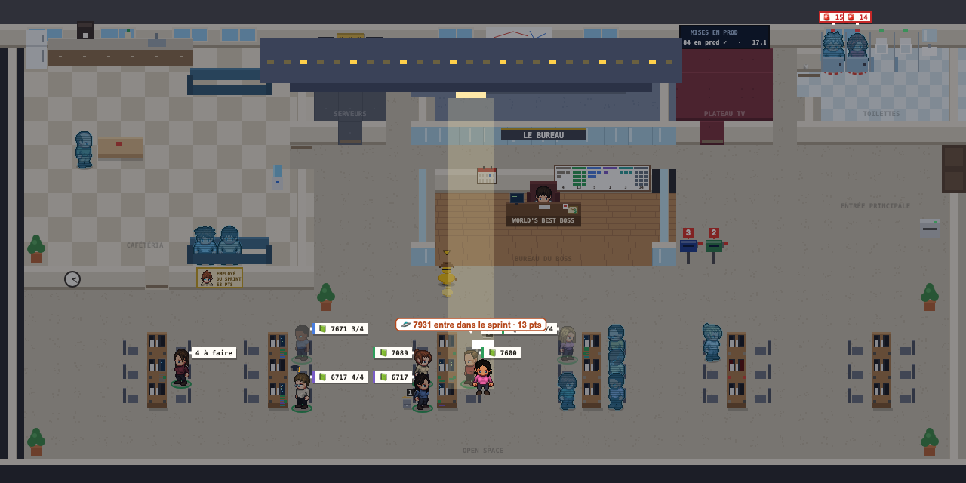
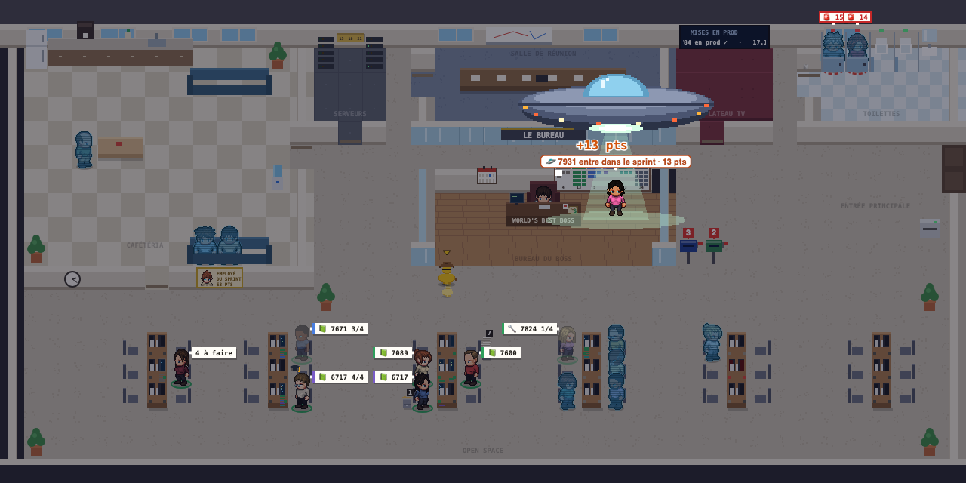
feat(page): soucoupe-mère, la facilitatrice déposée au mur Kanban avec le ticket
Le vaisseau simple de la première version devient une soucoupe-mère
(disque de trois quarts, dôme et reflet, couronne de feux qui tourne,
émetteur). Elle va chercher la facilitatrice là où elle est, traverse le
plan et la dépose devant le mur Kanban : le ticket va dans « à faire » et
y clignote, « +13 pts » au-dessus du mur, bulle d'annonce ; elle reste au
mur puis rentre à pied. Déjà au mur : le ticket descend seul jusqu'à
elle ; absente : le ticket descend seul. Loupe au dépôt (type ufo).
13 s, 10 s quand elle est déjà au mur.

Guide 01-plan et 04-fil-et-recap, README, CHANGELOG, capture
vaisseau-mere. Page de démo 905 431 octets, page publiée de référence
919 659.

#89

Changed region(s): [[0.2484, 0.0621, 0.7453, 0.8075]]

diff --git a/page/src/43-fx.js b/page/src/43-fx.js
@@ -1,5 +1,5 @@
 // ---------- petites scènes de 3 s : succès débloqué, éclosion, changement de stade (canard d'équipe), agent rétabli ----------
-// (et une de 10 s : le vaisseau-mère d'un ticket entré dans le sprint en cours de route, en bas du fichier)
+// (et une de 10 à 13 s : la soucoupe-mère d'un ticket entré dans le sprint en cours de route, en bas du fichier)
 // Chaque événement est daté par les données (fxEvents) : la scène se joue une fois quand l'heure affichée passe sa date (direct
 // ou rejeu ; le rejeu s'arrête déjà sur la loupe), FX_MS d'animation puis FX_HOLD de bulle, à la vitesse réelle. Rien quand on
 // fait glisser l'heure ; le premier passage note ce qui est déjà en cours sans le rejouer (comme la loupe).
@@ -52,7 +52,7 @@ function fxFrame(now){
     if(FX.seen)for(const e of evs)if(!FX.seen.has(e.id)&&!FX.cur.has(e.id))FX.cur.set(e.id,{...e,t0:now});
     FX.seen=new Set(evs.map(e=>e.id));
   }
-  for(const [id,e] of FX.cur)if(now-e.t0>(e.kind==='ufo'?UFO_MS:FX_MS+FX_HOLD))FX.cur.delete(id);
+  for(const [id,e] of FX.cur)if(now-e.t0>(e.kind==='ufo'?ufoPlan(e).ms:FX_MS+FX_HOLD))FX.cur.delete(id);
 }
 const fxP=(e,now)=>Math.min(1,(now-e.t0)/FX_MS); // avancement de l'animation, 0 à 1
 const fxOf=kind=>[...FX.cur.values()].find(e=>e.kind===kind);
@@ -113,36 +113,86 @@ function fxOverlay(now){
       fxBubble(c.pos.x,c.pos.y-44-(Math.floor((now-e.t0)/250)%2?2:0),'👏','#2e7d4f');
   }
 }
-// ---------- vaisseau-mère : un ticket entre dans le sprint après son démarrage (team.events, kind sprint_in) ----------
-// La lumière baisse, le vaisseau couvre le haut du plan au-dessus du poste de l'assigné (le milieu du plan sans assigné),
-// un projecteur l'éclaire, la facilitatrice (roleKind sm) descend dans le faisceau avec le ticket puis remonte.
-// Des tickets ajoutés coup sur coup (moins de 5 min d'écart) font une seule visite. Coupé par « réduire les animations ».
-const UFO_MS=1e4;
+// ---------- soucoupe-mère : un ticket entre dans le sprint après son démarrage (team.events, kind sprint_in, #89) ----------
+// La lumière baisse, une ombre glisse, la soucoupe va chercher la facilitatrice (roleKind sm) là où elle est, la dépose avec
+// le ticket devant le mur Kanban (emplacement kanban du plan) : elle le range dans « à faire », « +13 pts » sur le mur, bulle
+// d'annonce, puis la soucoupe repart et elle reste au mur. Déjà au mur : la soucoupe y vient et le ticket descend seul jusqu'à
+// elle ; absente ou pas de facilitatrice : le ticket descend seul. Des tickets ajoutés coup sur coup (moins de 5 min d'écart)
+// font une seule visite. Loupe au dépôt (44-loupe.js). Coupé par « réduire les animations ».
 let UFO_M={};
 function ufoLandings(){
   if(UFO_M.t===TEAM)return UFO_M.l;const l=[];
   for(const e of ((TEAM&&TEAM.events)||[]).filter(e=>e.kind==='sprint_in').sort((a,b)=>ms(a.t)-ms(b.t))){
     const t=ms(e.t),u=l[l.length-1];
     if(u&&t-u.end<3e5){u.end=t;if(!u.keys.includes(e.key)){u.keys.push(e.key);u.pts+=+e.points||0;}}
-    else l.push({at:t,end:t,keys:[e.key],pts:+e.points||0,dev:personChar(e.who,e.who_name)});
+    else l.push({at:t,end:t,keys:[e.key],pts:+e.points||0});
   }
   UFO_M={t:TEAM,l};return l;
 }
 const ufoSm=()=>{const c=smChar();return c&&c.pos&&c._st&&!['off','absent','gone'].includes(c._st.st)?c:null;};
-const ufoHides=c=>!!fxOf('ufo')&&c===ufoSm(); // pendant la visite, elle est dans le vaisseau
-// bubble faux : sous les bulles, au-dessus du voile de nuit ; vrai : la bulle
+// emplacement de dépôt : la case du milieu de l'emplacement kanban (le milieu du plan sans emplacement)
+function ufoSpot(){const s=((LAYOUT.spots||{}).kanban||[]).slice().sort((a,b)=>a[0]-b[0])[0|((LAYOUT.spots||{}).kanban||[]).length/2];
+  return s?{x0:s[0],y0:s[1],...tileCenter(s[0],s[1])}:tileCenter(COLS>>1,ROWS>>1);}
+// figé au début de la visite : qui, d'où (pick : on va la chercher), durée, début du dépôt (A, fraction de la visite)
+function ufoPlan(u){
+  if(u.plan)return u.plan;const sm=ufoSm(),d=ufoSpot(),wall=!!sm&&sm._st.zone==='kanban'&&!sm.moving,pick=!!sm&&!wall;
+  return u.plan={sm,d,pick,from:pick?{x:sm.pos.x,y:sm.pos.y}:d,ms:pick?13e3:1e4,A:pick?.4:.12};
+}
+const ufoHides=c=>{const u=fxOf('ufo');return !!u&&c===ufoPlan(u).sm;}; // pendant la visite, la scène la dessine
+// ellipse en lignes de pixels (vue de trois quarts) ; top : la moitié du haut seulement
+function ufoOval(x,y,a,b,col,top,st=2){for(let dy=-b;dy<(top?0:b);dy+=st){const t=(dy+st/2)/b,w=Math.round(a*Math.sqrt(Math.max(0,1-t*t))/2)*2;if(w>0)R(ctx,x-w,y+dy,w*2,st,col);}}
+function ufoSaucer(x,y,now,emit){
+  [[8,124,28,'#2b3246'],[0,130,26,'#4a5470'],[-4,124,20,'#6c7894'],[-8,108,14,'#8d98b2']].forEach(([o,a,b,c])=>ufoOval(x,y+o,a,b,c));
+  R(ctx,x-130,y-1,260,3,'#323a52');ufoOval(x,y-10,44,30,'#5e9fc4',1);ufoOval(x,y-12,36,25,'#8fd0ee',1); // arête, dôme
+  R(ctx,x-20,y-32,6,10,'#e8f8ff');R(ctx,x-13,y-35,4,4,'#e8f8ff'); // reflet
+  for(let i=0;i<14;i++){const a=i/14*Math.PI*2+now/700;if(Math.sin(a)>-.15) // couronne de feux qui tourne : ceux de devant
+    R(ctx,x+Math.cos(a)*120-3,y+1+Math.sin(a)*23,6,4,(i+Math.floor(now/180))%4?(i%2?'#ffb43a':'#ff6a3a'):'#fff6c0');}
+  ufoOval(x,y+32,36,6,emit?'#d8ffe8':'#3a4258');if(emit)ufoOval(x,y+32,22,4,'#fff'); // émetteur
+}
+function ufoBeam(x,top,bot,now,a){
+  ctx.globalAlpha=Math.max(0,a);
+  for(let y=top;y<bot;y+=2)R(ctx,x-14-30*(y-top)/(bot-top),y,28+60*(y-top)/(bot-top),2,`rgba(190,255,215,${Math.floor((y+now/30)/6)%2?.3:.2})`);
+  ufoOval(x,bot,92,12,'rgba(200,255,220,.35)');ctx.globalAlpha=1;
+}
+const ufoCard=(x,y)=>{R(ctx,x-9,y-6,18,13,'#b5481c');R(ctx,x-8,y-5,16,11,'#fff');R(ctx,x-6,y-3,12,2,'#b5481c');R(ctx,x-6,y+1,8,2,'#e0a080');};
+const ufoStand=(c,x,y,f,a=1)=>{const img=spriteOf(c);if(ready(img)){ctx.globalAlpha=a;ctx.drawImage(img,f*64,256,64,64,x-32,y-60,64,64);ctx.globalAlpha=1;}};
+const ufoSay=u=>'🛸 '+(u.keys[1]?u.keys.length+' tickets entrent':shortKey(u.keys[0])+' entre')+' dans le sprint'+(u.pts?' · '+u.pts+' pts':'');
+// bubble faux : au-dessus du voile de nuit, sous les bulles ; vrai : la bulle d'annonce
 function ufoDraw(now,bubble){
   const u=fxOf('ufo');if(!u)return;
-  const p=Math.min(1,(now-u.t0)/UFO_MS),k=(a,b)=>Math.min(1,Math.max(0,(p-a)/(b-a))),d=u.dev&&u.dev.seat?tileCenter(...u.dev.seat):{x:W/2,y:H/2},sm=ufoSm();
-  if(bubble){if(p>.56&&p<.84)fxBubble(d.x,d.y-70,'🛸 '+(u.keys[1]?u.keys.length+' tickets entrent':shortKey(u.keys[0])+' entre')+' dans le sprint'+(u.pts?' · '+u.pts+' pts':''),'#b5481c');return;}
-  ctx.fillStyle=`rgba(10,12,25,${.42*k(0,.15)*(1-k(.85,.97))})`;ctx.fillRect(0,0,W,H);
-  const w=Math.min(W-16,560),x=Math.max(w/2+8,Math.min(W-w/2-8,d.x)),y=-100+150*k(.12,.32)-160*k(.82,.97),b=y+80;
-  if(p>.3&&p<.82)R(ctx,d.x-30,b,60,d.y+8-b,'rgba(255,240,180,.24)'); // projecteur
-  if(p>.4&&p<.82){
-    const h=d.y+14-b-40,yy=b+40+h*k(.4,.58)-h*k(.72,.82),xx=d.x+(sm?16:0),img=sm&&spriteOf(sm);
-    if(img&&ready(img))ctx.drawImage(img,128,256,64,64,xx-32,yy-60,64,64); // de face, debout
-    if(p<.62)R(ctx,xx-14,yy-(sm?72:20),28,13,'#fff');
+  const {sm,d,pick,from:s,ms:D,A}=ufoPlan(u),p=Math.min(1,(now-u.t0)/D),k=(a,b)=>Math.min(1,Math.max(0,(p-a)/(b-a))),q=a=>A+(1-A)*a;
+  if(bubble){if(p>q(.62)&&p<q(.82))fxBubble(d.x,d.y-(sm?62:38),ufoSay(u),'#b5481c');return;}
+  const hy=Math.max(80,(KANR?KANR.y:d.y)-80),sy=Math.max(80,s.y-150);
+  ctx.fillStyle=`rgba(10,12,30,${.45*k(0,.08)*(1-k(q(.9),q(.98)))})`;ctx.fillRect(0,0,W,H); // la lumière baisse
+  if(p<.16){ctx.globalAlpha=.35*(1-k(.12,.16));ufoOval(W+120-(W+120-s.x)*k(0,.12),s.y+10,190,34,'#05060c',0,4);ctx.globalAlpha=1;} // l'ombre
+  let x=d.x,y=hy; // trajet : au-dessus d'elle, traversée en arc, au-dessus du mur, départ en haut à gauche
+  if(!pick)y=-60+(hy+60)*k(0,A);
+  else if(p<.3){x=s.x;y=-60+(sy+60)*k(.04,.16);}
+  else if(p<A){const f=k(.3,A);x=s.x+(d.x-s.x)*f;y=sy+(hy-sy)*f-50*Math.sin(f*Math.PI);}
+  if(p>q(.86)){const f=k(q(.86),q(.98));x=d.x-160*f;y=hy-(hy+120)*f;}
+  if(pick){ // prise en charge : elle se lève et monte dans le faisceau
+    if(p<.3)ufoBeam(s.x,y+36,s.y+8,now,Math.min(k(.16,.19),1-k(.28,.3)));
+    if(p<.29)ufoStand(sm,s.x,s.y-(s.y-y-44)*k(.19,.28),2,1-k(.25,.29));
   }
-  R(ctx,x-w/2,y,w,60,'#3a4258');R(ctx,x-w/2+40,y+60,w-80,12,'#2b3246');R(ctx,x-20,y+72,40,8,'#ffe9a8');
-  for(let i=0;i<w/22-1;i++)R(ctx,x-w/2+10+i*22,y+30,9,5,(Math.floor(now/200)+i)%3?'#6a6040':'#ffd04a');
+  if(p>q(.02)&&p<q(.82))ufoBeam(d.x,y+36,d.y+8,now,Math.min(k(q(.02),q(.06)),1-k(q(.78),q(.82))));
+  const top=y+44,land=k(q(.05),q(.2));
+  if(sm&&(p>q(.05)||!pick)){ // devant le mur : de face, vers le mur pour ranger le ticket, de face pour l'annonce
+    ufoStand(sm,d.x,pick?top+(d.y-top)*land:d.y,p>q(.3)&&p<q(.45)?0:2);
+    if(pick&&land>=1&&d.x0!=null){sm.pos={x:d.x,y:d.y};sm.tile=[d.x0,d.y0];sm.path=[];sm.target=null;} // elle reste au mur après la visite
+  }
+  if(p>q(.05)&&p<q(.3))ufoCard(d.x+(sm&&(pick||land>=1)?14:0),pick&&sm?top+(d.y-top)*land-30:top+(d.y-(sm?30:6)-top)*land);
+  if(!KANR)return ufoSaucer(x,y,now,p>q(.02)&&p<q(.8)||pick&&p>.16&&p<.3);
+  const t=kanbanCols()[0].list,j=Math.max(0,t.findIndex(e=>e.key===u.keys[0])),sx=KANR.x+6+j%3*6,sl=KANR.y+11+Math.floor(j/3)*5;
+  if(p>=q(.3)&&p<q(.45)){const f=k(q(.3),q(.45)),o=d.x+(sm?14:0);ufoCard(o+(sx-o)*f,d.y-30+(sl-d.y+30)*f-24*Math.sin(f*Math.PI));} // vers « à faire »
+  if(p>=q(.45)){R(ctx,sx-4,sl-4,9,8,Math.floor(now/250)%2?'#ff8a1c':'#fff'); // il clignote sur le mur, « +13 pts » au-dessus
+    if(p<q(.72)){const fy=KANR.y-8-12*k(q(.45),q(.53)),txt=u.pts?'+'+u.pts+' pts':'+'+u.keys.length+' ticket'+(u.keys[1]?'s':'');
+      ctx.font='bold 16px ui-monospace,Menlo,monospace';ctx.textAlign='center';ctx.globalAlpha=1-k(q(.68),q(.72));ctx.lineWidth=3;ctx.strokeStyle='#fff';
+      ctx.strokeText(txt,KANR.x+KANR.w/2,fy);ctx.fillStyle='#d2560f';ctx.fillText(txt,KANR.x+KANR.w/2,fy);ctx.globalAlpha=1;ctx.textAlign='left';}}
+  if(y>-60)ufoSaucer(x,y,now,p>q(.02)&&p<q(.8)||pick&&p>.16&&p<.3);
+}
+// loupe : dès le dépôt, cadrée sur la soucoupe, la facilitatrice et le mur (44-loupe.js)
+function ufoLoupeEvents(now){
+  const u=fxOf('ufo');if(!u)return [];const {sm,d,A,ms:D}=ufoPlan(u);if((now-u.t0)/D<A)return [];
+  const st={st:'ufo',label:sm?sm.name+' le range dans « à faire »':'Rangé dans « à faire »'},hy=Math.max(80,(KANR?KANR.y:d.y)-80);
+  return [{id:u.id,kind:'ufo',cs:[{key:sm?sm.key:'',name:ufoSay(u).slice(3),pos:{x:d.x-2*TS,y:d.y},_st:st},{key:'',name:'',pos:{x:d.x+2*TS,y:hy+2*TS},_st:st}]}];
 }

diff --git a/page/src/44-loupe.js b/page/src/44-loupe.js
@@ -1,14 +1,14 @@
 // ---------- loupe : un médaillon agrandi sur le plan quand un événement fort commence ----------
 // Réouverture (le héraut convoque l'assigné), mise en prod réussie (le sage félicite), invité qui arrive, fête de MEP,
-// pouce du testeur, daily, sprint planning, rétro, lancement et pizza du sprint. Le plan reste entier : un cadre entoure la
+// pouce du testeur, daily, sprint planning, rétro, lancement et pizza du sprint, soucoupe-mère (ticket entré en cours de sprint). Le plan reste entier : un cadre entoure la
 // scène ; une fenêtre flottante l'agrandit, en bas à gauche de l'écran (à droite si elle couvrirait la scène), avec un liseré
 // de la couleur de l'événement et sa légende (clic : la fiche, ✕ : fermer). Un événement à la fois, une fois les personnages arrivés, LOUPE_MS ;
 // en rejeu accéléré la lecture se met en pause le temps de la loupe ; rien quand on fait glisser l'heure ou qu'on survole le
 // plan. Bouton « 🔍 Loupe » de la barre (retenu dans le navigateur), ?loupe=0 dans l'adresse de l'écran mural.
 const LOUPE_MS=20e3, LOUPE_WAIT_MAX=40e3, LOUPE_HOVER_MS=5e3;
 const LOUPE_KINDS={reopen:['⛔','#b3122e'],proud:['🎉','#0172f0'],party:['🎉','#0172f0'],thumbs:['👍','#2e9e5b'],guest:['👋','#2e9e5b'],
-  daily:['☀','#2e9e9b'],planning:['🗓','#2e9e9b'],retro:['🔄','#c25a9e'],kickoff:['🏁','#2e9e9b'],pizza:['🍕','#2e9e9b'],duck:['🦆','#c47f00'],hatch:['🐣','#c47f00'],trophy:['🏆','#c47f00']};
-const LOUPE_ORDER=['reopen','proud','guest','thumbs','kickoff','planning','retro','daily','pizza','party','trophy','hatch','duck'];
+  daily:['☀','#2e9e9b'],planning:['🗓','#2e9e9b'],retro:['🔄','#c25a9e'],kickoff:['🏁','#2e9e9b'],pizza:['🍕','#2e9e9b'],duck:['🦆','#c47f00'],hatch:['🐣','#c47f00'],trophy:['🏆','#c47f00'],ufo:['🛸','#b5481c']};
+const LOUPE_ORDER=['reopen','ufo','proud','guest','thumbs','kickoff','planning','retro','daily','pizza','party','trophy','hatch','duck'];
 // cérémonies : toute l'équipe est dans la scène, la légende la nomme au lieu d'énumérer tout le monde
 const LOUPE_CEREMONY={daily:"Daily de l'équipe",planning:'Sprint planning',retro:'Rétrospective',kickoff:'Lancement du sprint',pizza:'Pizza de fin de sprint'};
 let LOUPE_ON=!REDUCED_MOTION;try{const v=localStorage.getItem('bureau:loupe');if(v!==null)LOUPE_ON=v!=='0';}catch(e){} // un choix du bouton passe avant le réglage système
@@ -27,7 +27,7 @@ function loupeScan(){
     const id=k==='guest'?'guest:'+c.key:k;(groups[id]=groups[id]||[]).push(c);
   }
   for(const id in groups){now.add(id);if(LOUPE.seen&&!LOUPE.seen.has(id))fresh.push({id,kind:id.split(':')[0],cs:groups[id]});}
-  for(const ev of duckLoupeEvents(T)){now.add(ev.id);if(LOUPE.seen&&!LOUPE.seen.has(ev.id))fresh.push(ev);} // canard d'équipe (39-duckgame.js)
+  for(const ev of [...duckLoupeEvents(T),...ufoLoupeEvents(performance.now())]){now.add(ev.id);if(LOUPE.seen&&!LOUPE.seen.has(ev.id))fresh.push(ev);} // canard d'équipe (39-duckgame.js), soucoupe-mère (43-fx.js)
   LOUPE.seen=now;
   // au même endroit, le plus parlant d'abord : le sage avant la fête de MEP (l'autre est écarté, même cadre)
   return fresh.sort((a,b)=>LOUPE_ORDER.indexOf(a.kind)-LOUPE_ORDER.indexOf(b.kind));
@@ -48,7 +48,7 @@ function loupeCaption(ev){
       title:LOUPE_CEREMONY[ev.kind]+' · '+ev.cs.length+(ev.cs.length>1?' personnes':' personne'),sub:(host._st&&host._st.label)||''};
   }
   const lead=ev.cs.find(c=>c.guest)||(ev.kind==='thumbs'&&ev.cs.find(c=>c.roleKind==='qa'))||ev.cs[0];
-  const others=ev.cs.filter(c=>c!==lead).map(c=>c.name);
+  const others=ev.cs.filter(c=>c!==lead&&c.name).map(c=>c.name);
   return {lead,ico:LOUPE_KINDS[ev.kind][0],color:LOUPE_KINDS[ev.kind][1],
     title:lead.name+(others.length?' · '+others.slice(0,3).join(', '):''),sub:(lead._st&&lead._st.label)||''};
 }
@@ -110,7 +110,7 @@ function drawLoupe(now){
     f.innerHTML='<canvas></canvas><div class="lh" title="Ouvrir sa fiche"><button class="lx" aria-label="Fermer">✕</button><b role="button" tabindex="0"></b><small></small><i></i></div>';
     document.body.appendChild(f);
     f.querySelector('.lx').onclick=e=>{e.stopPropagation();loupeHide();};
-    f.querySelector('.lh').onclick=()=>{const c=LOUPE.cur&&LOUPE.cur.cap.lead;loupeHide();if(c)select(c.key);};
+    f.querySelector('.lh').onclick=()=>{const c=LOUPE.cur&&LOUPE.cur.cap.lead;loupeHide();if(c&&c.key)select(c.key);};
     f.addEventListener('keydown',keyClick); // le titre (role=button, pas la légende entière : elle contient le bouton Fermer)
   }
   f.style.setProperty('--lc',k.color);

diff --git a/tests/ufo.test.js b/tests/ufo.test.js
@@ -1,5 +1,5 @@
-// Vaisseau-mère (team.events, kind sprint_in) : un ticket entre dans le sprint après son démarrage ; le vaisseau descend
-// au-dessus du poste de l'assigné et la facilitatrice y est déposée. Démo : DM-7931 (13 pts) pour Andy à 14h20.
+// Soucoupe-mère (team.events, kind sprint_in, #89) : un ticket entre dans le sprint après son démarrage ; la soucoupe va
+// chercher la facilitatrice et la dépose devant le mur Kanban avec le ticket. Démo : DM-7931 (13 pts) pour Andy à 14h20.
 'use strict';
 const test = require('node:test');
 const assert = require('node:assert/strict');
@@ -11,8 +11,8 @@ const run = page.run;
 const J = code => JSON.parse(run('JSON.stringify(' + code + ')'));
 run('TEAM=mergedTeam();');
 
-test('la démo : une visite pour DM-7931, 13 pts, au poste d\'Andy', () => {
-  assert.deepEqual(J('ufoLandings().map(u=>[u.at,u.keys,u.pts,u.dev&&u.dev.key])'), [[at('14:20'), ['DM-7931'], 13, 'p_andy']]);
+test('la démo : une visite pour DM-7931, 13 pts', () => {
+  assert.deepEqual(J('ufoLandings().map(u=>[u.at,u.keys,u.pts])'), [[at('14:20'), ['DM-7931'], 13]]);
 });
 
 test('jouée dans les 10 min qui suivent, pas avant ni après', () => {
@@ -33,17 +33,41 @@ test('des tickets ajoutés coup sur coup : une seule visite, les points s\'addit
   } finally { run(`TEAM.events=${saved};UFO_M={};`); }
 });
 
-test('pendant la visite, la facilitatrice est dans le vaisseau ; les autres restent visibles', () => {
-  run(`FX.cur.set('x',{id:'x',kind:'ufo',t0:0,...ufoLandings()[0]});
-    byKey.p_kelly.pos={x:100,y:100};byKey.p_kelly._st={st:'work'};byKey.p_kelly.present=true;`);
-  try {
-    assert.equal(run('ufoHides(byKey.p_kelly)'), true);
-    assert.equal(run('ufoHides(byKey.p_andy)'), false);
-    run(`byKey.p_kelly._st={st:'absent'}`); // absente ce jour-là : le vaisseau vient sans elle
-    assert.equal(run('ufoSm()'), null);
-    assert.equal(run('fxDuckBusy()'), false); // le canard n'est pas en scène
-  } finally { run(`FX.cur.clear();`); }
-});
+// une visite en cours, la facilitatrice dans l'état donné (à son poste par défaut)
+function visit(st, fn) {
+  run(`byKey.p_kelly.pos={x:100,y:500};byKey.p_kelly.moving=false;byKey.p_kelly._st=${JSON.stringify(st)};byKey.p_kelly.present=true;
+    FX.cur.set('x',{id:'x',kind:'ufo',t0:0,...ufoLandings()[0]});`);
+  try { return fn(); } finally { run(`FX.cur.clear();`); }
+}
+
+test('à son poste : la soucoupe va la chercher (13 s), elle est cachée de son poste pendant la visite', () => visit({st: 'work', zone: 'desk'}, () => {
+  assert.deepEqual(J(`(p=>[p.sm.key,p.pick,p.ms,p.from])(ufoPlan(fxOf('ufo')))`), ['p_kelly', true, 13e3, {x: 100, y: 500}]);
+  assert.equal(run('ufoHides(byKey.p_kelly)'), true);
+  assert.equal(run('ufoHides(byKey.p_andy)'), false);
+  assert.equal(run('fxDuckBusy()'), false); // le canard n'est pas en scène
+}));
+
+test('déjà au mur Kanban : pas de prise en charge, la visite dure 10 s', () => visit({st: 'work', zone: 'kanban'}, () => {
+  assert.deepEqual(J(`(p=>[p.pick,p.ms,p.A])(ufoPlan(fxOf('ufo')))`), [false, 1e4, .12]);
+}));
+
+test('absente ce jour-là : le ticket descend seul', () => visit({st: 'absent'}, () => {
+  assert.deepEqual(J(`(p=>[p.sm,p.pick])(ufoPlan(fxOf('ufo')))`), [null, false]);
+}));
+
+test('déposée devant le mur, elle y reste après la visite (elle rentre ensuite à pied)', () => visit({st: 'work', zone: 'desk'}, () => {
+  const d = J('ufoSpot()');
+  run(`ufoDraw(${.4 + .6 * .3}*13e3)`); // posée, en train de ranger le ticket
+  assert.deepEqual(J('[byKey.p_kelly.pos,byKey.p_kelly.tile,byKey.p_kelly.path]'), [{x: d.x, y: d.y}, [d.x0, d.y0], []]);
+}));
+
+test('la loupe s\'ouvre au dépôt, sur la soucoupe et le mur, au nom du ticket', () => visit({st: 'work', zone: 'desk'}, () => {
+  assert.deepEqual(J('ufoLoupeEvents(.3*13e3)'), []); // encore à la prise en charge
+  const ev = J('ufoLoupeEvents(.45*13e3)')[0];
+  assert.equal(ev.kind, 'ufo');
+  assert.equal(ev.cs[0].name, 'DM-7931 entre dans le sprint · 13 pts'.replace('DM-', ''));
+  assert.equal(J(`loupeCaption(ufoLoupeEvents(.45*13e3)[0]).title`), '7931 entre dans le sprint · 13 pts');
+}));
 
 test('le fil dit qu\'un ticket arrive en cours de sprint, pour qui', () => {
   const txt = run(`teamEventTxt({kind:'sprint_in',key:'DM-7931',points:13,who:'dm:0002'}).txt`);

diff --git a/tests/palettes.test.js b/tests/palettes.test.js
@@ -45,7 +45,7 @@ test('les deux vues concordent : un même jeton donne la même couleur sur le ca
 
 test('chaque état posé par la page a sa couleur, sauf ceux qui gardent volontairement la couleur par défaut', () => {
   // sans anneau sur le plan, pastille var(--idle) en HTML : leur donner une couleur changerait le rendu
-  const sansCouleur = new Set(['duck', 'hatch', 'off', 'passion', 'proud', 'trophy']);
+  const sansCouleur = new Set(['duck', 'hatch', 'off', 'passion', 'proud', 'trophy', 'ufo']); // duck, hatch, trophy, ufo : pseudo-personnages de la loupe
   const states = new Set(jsFiles.flatMap(f => [...fs.readFileSync(path.join(SRC, f), 'utf8').matchAll(/\bst:'([a-z]+)'/g)].map(m => m[1])));
   for (const st of states) assert.ok(st in t.css || sansCouleur.has(st), `état sans couleur : ${st}`);
   for (const st of sansCouleur) assert.ok(!(st in t.css), `${st} a maintenant une couleur : le retirer de la liste`);

diff --git a/tools/shots.py b/tools/shots.py
@@ -227,9 +227,11 @@ SHOTS = {
     # mis en scène : Creed, rétabli à 18h05 dans la démo ; les agents présents applaudissent, comme ceux au travail)
     "canard-succes": (1400, 1000, AT(11) + "DUCKGAME=JSON.parse(JSON.stringify(DUCKGAME_DEMO));DUCKGAME.trophies.leve_tot={ok:true,period:'26-39',detail:'17.106.0 à 10:12'};for(let t=T;t<T+3*3600e3;t+=5000){const a=duckWalk(t),b=duckWalk(t+40e3);if(a&&!a.moving&&b&&!b.moving&&a.x>8*TS&&a.y>6*TS){T=t;break;}}needTeleport=true;" + "setTimeout(()=>{window.fxFrame=()=>{};setLoupe(false,false);FX.cur=new Map([['x',Object.assign({kind:'trophy',t0:performance.now()-3500},{tr:DUCK_TROPHIES[1]})]]);},1800);" + "setTimeout(()=>{const p=DUCK_POS,c=document.querySelector('#cv'),r=c.getBoundingClientRect(),k=r.width/c.width,d=document.createElement('div');d.id='shotclip';Object.assign(d.style,{position:'absolute',left:(r.left+scrollX+(p.x-6*TS)*k)+'px',top:(r.top+scrollY+(p.y-4.2*TS)*k)+'px',width:12*TS*k+'px',height:5.4*TS*k+'px',pointerEvents:'none'});document.body.appendChild(d);},2000);", "#shotclip", 2),
     "canard-eclosion": (1400, 1000, AT(11) + "DUCKGAME=Object.assign({},DUCKGAME_DEMO,{target:400});for(let t=T;t<T+3*3600e3;t+=5000){const a=duckWalk(t),b=duckWalk(t+40e3);if(a&&!a.moving&&b&&!b.moving&&a.x>8*TS&&a.y>6*TS){T=t;break;}}needTeleport=true;" + "setTimeout(()=>{window.fxFrame=()=>{};setLoupe(false,false);FX.cur=new Map([['x',Object.assign({kind:'hatch',t0:performance.now()-1700},{from:'oeuf',to:'caneton'})]]);},1800);" + "setTimeout(()=>{const p=DUCK_POS,c=document.querySelector('#cv'),r=c.getBoundingClientRect(),k=r.width/c.width,d=document.createElement('div');d.id='shotclip';Object.assign(d.style,{position:'absolute',left:(r.left+scrollX+(p.x-6*TS)*k)+'px',top:(r.top+scrollY+(p.y-4.2*TS)*k)+'px',width:12*TS*k+'px',height:5.4*TS*k+'px',pointerEvents:'none'});document.body.appendChild(d);},2000);", "#shotclip", 2),
-    # vaisseau-mère (43-fx.js) : DM-7931 entre dans le sprint à 14h20, la facilitatrice descend au poste d'Andy (instant figé)
+    # soucoupe-mère (43-fx.js) : DM-7931 entre dans le sprint à 14h20 ; la soucoupe est allée chercher la facilitatrice à son
+    # poste et l'a déposée devant le mur Kanban : « +13 pts » sur le mur et la bulle d'annonce (instant figé à 79 % de 13 s)
     "vaisseau-mere": (1400, 1000, AT(14 + 21 / 60) + "setTimeout(()=>{window.fxFrame=()=>{};setLoupe(false,false);"
-                      "FX.cur=new Map([['x',{id:'x',kind:'ufo',...ufoLandings()[0],t0:performance.now()-5200}]]);},1800);", "#cv", 1),
+                      "const e={id:'x',kind:'ufo',...ufoLandings()[0]};Object.defineProperty(e,'t0',{get:()=>performance.now()-.79*13e3});"
+                      "FX.cur=new Map([['x',e]]);},1800);", "#cv", 1),
     "agent-retabli": (1400, 1000, AT(18 + 7 / 60) + "setTimeout(()=>{window.fxFrame=()=>{};setLoupe(false,false);FX_WORKING.push('idle');"
                       "FX.cur=new Map([['x',{kind:'recover',t0:performance.now()-800,c:chars.find(c=>c.name==='Creed')}]]);},1800);", "#cv", 1),
     # fiche du canard quand il attend ta réponse : la carte de la question en tête (démo : question ajoutée)

diff --git a/guide/fonctionnalites/04-fil-et-recap.md b/guide/fonctionnalites/04-fil-et-recap.md
@@ -7,7 +7,7 @@ Le fil raconte la journée, heure par heure ; le récap la résume en quelques l
 - **En ce moment**, en haut du fil (dans « Important » comme dans « Tout ») : ce qui t'attend, avec depuis quand (« ✋ Dwight attend ta validation « publier_la_revue » · depuis 17:52 · 38 min », un visiteur, le canard ou un agent interrogé qui attend ta réponse, depuis l'heure de sa question), puis une seule ligne de repères déduite du calendrier : « 📌 Dernière MEP de la semaine · Fin du sprint 26-39 demain », « Pas de MEP aujourd'hui (vendredi) », « Premier jour du sprint », « Bon week-end » (le dernier jour ouvré, à partir de 15 h). Le nom du sprint mène à sa tuile en haut de page. Calculé pour l'heure affichée : le rejeu montre ce qui attendait à ce moment-là.
 - Tes actions : en « Important », ce que tu lances à la main (bouton Relancer, lancement depuis une page, ou dans Kronn) : « 🔁 Tu relances Kevin · Migration des blocks », « 🤖 Tu lances Implémentation ticket sur EW-7852 · Ryan s'y met » ; dans « Tout », ce que tu poses depuis Le Bureau : « 💬 Tu commentes DM-7089 », « ❓ Tu interroges Creed », « 🦆 Tu ouvres une discussion avec le canard ». Les commentaires et les questions arrivent avec le cron du bureau (toutes les 10 min).
 - Une validation décidée quitte « En ce moment » et entre dans le fil : « ✅ Tu valides la gate de Dwight · « publier_la_revue » · après 25 min d'attente » (ou « ⛔ Tu refuses »), datée par l'étape Gate du run.
-- Événements : runs d'agents (regroupés au-delà de 4 runs par jour : « Creed ×38, 31 ✓ 7 ✗ »), tickets créés par l'équipe (« 📝 Jan crée DM-7910 », aussi dans le bandeau du mode TV), tickets Jira qui changent de statut, PR ouvertes, relues et mergées, releases, staging et prod, daily, discussions.
+- Événements : runs d'agents (regroupés au-delà de 4 runs par jour : « Creed ×38, 31 ✓ 7 ✗ »), tickets créés par l'équipe (« 📝 Jan crée DM-7910 », aussi dans le bandeau du mode TV), tickets Jira qui changent de statut, tickets qui entrent dans le sprint en cours de route (« 🛸 DM-7931 arrive en cours de sprint (13 pts) pour Andy »), PR ouvertes, relues et mergées, releases, staging et prod, daily, discussions.
 - Pannes des agents, avec la règle de l'alarme du plan (3 échecs d'affilée) : « 🚨 Creed en panne · 3 échecs d'affilée sur Erreurs prod » au 3e échec, puis « ✅ Creed rétabli · après 18 échecs d'affilée » au premier succès. En « Important », ces deux lignes remplacent le regroupement « Creed ×16 · 0 ✓ · 16 ✗ » ; « Tout » garde le regroupement pour les chiffres.
 - Le canard d'équipe : « 🏆 Le canard débloque un succès » et « 🐣 Un caneton est né » (début d'un sprint qui suit un sprint tenu) en « Important » ; ses changements de stade et sa mue au début du sprint dans « Tout ».
 - Dans « Tout » seulement : le sprint planning et la rétrospective à leur heure (« 🔁 Rétrospective en salle de réunion · animée par Clark · 1 h 00 ») et les visites : le gardien des reopens à chaque réouverture, le héraut des mises en prod à chaque prod réussie, les invités à leur arrivée (« 👋 David passe au bureau · jusqu'à 11:40 », ou « passe voir » le collègue qu'il salue en premier).

diff --git a/guide/fonctionnalites/01-plan.md b/guide/fonctionnalites/01-plan.md
@@ -53,9 +53,9 @@ Une mise en prod d'un autre dépôt suivi peut être lancée par quelqu'un qui n
 
 ![Creed sort de panne : « ✅ Rétabli ! » et les applaudissements des autres agents](../img/agent-retabli.png)
 
-Quand un ticket entre dans le sprint après son démarrage (il n'était pas au sprint planning), un vaisseau-mère vient le livrer. La lumière baisse, le vaisseau couvre le haut du plan au-dessus du poste de la personne assignée (le milieu du plan si le ticket n'est assigné à personne) et un projecteur l'éclaire. La facilitatrice descend dans le faisceau avec le ticket, la bulle annonce « 🛸 7931 entre dans le sprint · 13 pts », puis elle remonte et le vaisseau repart. La scène dure dix secondes, à l'heure Jira de l'ajout au sprint. Plusieurs tickets ajoutés à moins de 5 minutes d'écart font une seule visite (« 🛸 3 tickets entrent dans le sprint · 21 pts »). Les ajouts dans la demi-heure qui suit le démarrage du sprint comptent comme le planning et ne déclenchent rien. Sans facilitatrice au bureau ce jour-là, le vaisseau dépose le ticket seul. Avec « réduire les animations », pas de vaisseau. Dans le fil : « 🛸 DM-7931 arrive en cours de sprint (13 pts) pour Andy ».
+Quand un ticket entre dans le sprint après son démarrage (il n'était pas au sprint planning), une soucoupe-mère vient le livrer, à l'heure Jira de l'ajout au sprint. La lumière baisse, une ombre glisse sur le plan et la soucoupe va chercher la facilitatrice là où elle est : le faisceau s'allume, elle monte à bord. La soucoupe traverse le plan jusqu'au mur Kanban et la dépose devant avec le ticket : elle le range dans la colonne « à faire », où il clignote, « +13 pts » s'affiche au-dessus du mur et la bulle annonce « 🛸 7931 entre dans le sprint · 13 pts ». La soucoupe repart ; la facilitatrice reste au mur, puis reprend sa journée. La loupe s'ouvre au moment du dépôt. Si elle est déjà au mur, la soucoupe y vient directement et le ticket descend jusqu'à elle ; absente ce jour-là (ou pas de facilitatrice dans l'équipe), le ticket descend seul. La scène dure 13 secondes (10 quand elle est déjà au mur). Plusieurs tickets ajoutés à moins de 5 minutes d'écart font une seule visite (« 🛸 3 tickets entrent dans le sprint · 21 pts »). Les ajouts dans la demi-heure qui suit le démarrage du sprint comptent comme le planning et ne déclenchent rien. Avec « réduire les animations », pas de soucoupe. Dans le fil : « 🛸 DM-7931 arrive en cours de sprint (13 pts) pour Andy ».
 
-![Le vaisseau-mère dépose la facilitatrice et DM-7931 au poste d'Andy](../img/vaisseau-mere.png)
+![La soucoupe-mère a déposé la facilitatrice devant le mur Kanban avec DM-7931 : +13 pts et la bulle d'annonce](../img/vaisseau-mere.png)
 
 Gandalf et Yoda viennent dans tous les bureaux, quelle que soit l'équipe (`team/guests.json`). Pour les retirer : `"common_guests": false` dans `bureau.config.json` ; pour en changer le nom, la réplique ou l'allure : un invité de même clé (`g_gandalf`, `g_yoda`) dans le roster de l'équipe ou dans la config.
 

diff --git a/CHANGELOG.md b/CHANGELOG.md
@@ -14,6 +14,7 @@ Format : [Keep a Changelog](https://keepachangelog.com/fr/1.1.0/). Versions : `0
 - Réglages d'équipe dans le pack (`settings.json`) : rythme, GitFut, affiches du Top 3, planning des absences et personnages des agents, lus à chaque publication et surchargeables par la config ; l'installateur rattache chaque personnage à un de tes workflows (`--rattacher` pour le refaire) ; `tools/split.py` découpe une config existante sans changer la page ni les workflows (#32).
 - Modèles d'agents du Bureau, proposés à l'installation : relire une PR (à la demande, ou en cron créé désactivé, avec une grille de revue générique et les consignes de l'équipe), réestimer un ticket, rédiger une issue GitHub, m'affecter et me désaffecter un ticket. Sans valeur d'installation (connexions, page de récap facultative, champ Story Points, transitions choisies par statut) ; « Faire relire » et « Réestimer » les lancent quand tu n'as pas ton propre workflow (#78).
 - Fiche d'un ticket ou d'une PR, « Lancer un workflow » : chaque action montre l'agent qui la fait (portrait, icône de métier, « Nate corrige les 5 fils de review », clic : sa fiche), calculé depuis ses workflows ; groupes par PR puis ticket ; l'action conseillée encadrée ; un bandeau implémente › corrige › relit › met en prod ; les actions pas encore possibles grisées avec leur raison ; « est dessus depuis… » quand l'agent travaille déjà dessus ; coût moyen d'un run (#86).
+- Soucoupe-mère sur le plan : un ticket qui entre dans le sprint après son démarrage arrive en soucoupe, qui va chercher la facilitatrice et la dépose avec le ticket devant le mur Kanban (rangé dans « à faire », « +13 pts », bulle d'annonce, loupe) ; tickets ajoutés coup sur coup groupés en une visite ; ligne « 🛸 » dans le fil. Le cron équipe lit le champ Sprint dans l'historique des tickets, sans requête de plus (#89).
 
 ### Modifié
 

diff --git a/README.md b/README.md
@@ -8,7 +8,7 @@ Une page Live pour [Kronn](https://github.com/DocRoms/Kronn) façon *The Office*
 
 | Fonctionnalité | En bref |
 | --- | --- |
-| [Le plan](guide/fonctionnalites/01-plan.md) | Collègues, agents en hologramme (et ceux ajoutés depuis une baie de la salle Serveurs), visiteurs et invités de passage, placés selon ce qu'ils font ; lumière du jour ; loupe sur les événements forts (réouverture, mise en prod, visite, cérémonies), plan d'équipe validé par le boss, brouillon depuis un croquis ou une photo, passions de l'équipe, le canard en plastique qui se promène et grandit avec le sprint (stades, canetons, succès, petites scènes) ; l'agent qui sort de panne applaudi ; le vaisseau-mère d'un ticket ajouté en cours de sprint |
+| [Le plan](guide/fonctionnalites/01-plan.md) | Collègues, agents en hologramme (et ceux ajoutés depuis une baie de la salle Serveurs), visiteurs et invités de passage, placés selon ce qu'ils font ; lumière du jour ; loupe sur les événements forts (réouverture, mise en prod, visite, cérémonies), plan d'équipe validé par le boss, brouillon depuis un croquis ou une photo, passions de l'équipe, le canard en plastique qui se promène et grandit avec le sprint (stades, canetons, succès, petites scènes) ; l'agent qui sort de panne applaudi ; la soucoupe-mère qui dépose au mur Kanban un ticket ajouté en cours de sprint |
 | [Qui fait quoi](guide/fonctionnalites/03-qui-fait-quoi.md) | Une carte par personne et par agent : ce qu'il fait maintenant |
 | [Fil et récap](guide/fonctionnalites/04-fil-et-recap.md) | La journée heure par heure (ce qui t'attend en haut, tes actions, pannes, filtre par type), et son résumé depuis minuit |
 | [Rejouer la journée](guide/fonctionnalites/05-rejouer.md) | Direct, ou relecture accélérée de minuit à maintenant |
